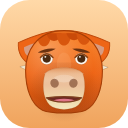
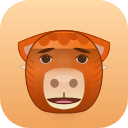
Strip the cuteness from Niulai: matte eyes, level mouth, deeper shading
Keeps the proportions but removes the signals that made it read as a
kawaii mascot rather than the reference character:

- Eyes are smaller, almond, tilted and matte, with the iris nearly
  filling them under a heavy lid. The sparkle highlights are gone.
- The mouth is a level line with the corners set low, not a cartoon "w"
  smile. A smile now lifts the corners rather than being the default.
- Darker, less candied palette, a shadow under the brow ridge, and fur
  strokes down the cheeks so the silhouette is not a clean vector edge.
- Heavier brows angled down toward the middle.

Three renderer options carry this, all opt-in so no other animal moves:
`eyes.gloss: false`, `eyes.tilt`, and `mouthStyle: 'line'`. Also adds
`headShape` and `unionOutline` for animals whose skull is not a rounded
blob, plus `thumbScale` for heads too tall to fit the default thumbnail
box.

This is closer but still a stylised vector drawing rather than a
faithful reproduction of the reference render.

Changed region(s): [[0.1562, 0.2188, 0.8438, 0.9062], [0.8125, 0.3125, 0.875, 0.4062], [0.125, 0.3125, 0.1875, 0.4062]]

diff --git a/src/core/animals.js b/src/core/animals.js
@@ -167,16 +167,21 @@
     }
 
     var ry = r * (E.aspect || 1) * mix(0.18, 1, open);
+    var tilt = (E.tilt || 0) * side;
 
     if (E.white) {
-      fillEllipse(ctx, x, y, r * 1.02, ry * 1.02, 0, spec.eyeWhite || '#ffffff');
+      fillEllipse(ctx, x, y, r * 1.02, ry * 1.02, tilt, spec.eyeWhite || '#ffffff');
       ctx.strokeStyle = 'rgba(0,0,0,0.16)';
       ctx.lineWidth = 0.008;
       ctx.stroke();
       var px = x + p.yaw * r * 0.34;
       var iris = r * (E.iris || 0.46);
-      fillEllipse(ctx, px, y + p.pitch * ry * 0.2, iris, Math.min(ry * 0.92, iris), 0, spec.eye);
-      fillEllipse(ctx, px - iris * 0.34, y - ry * 0.3, r * 0.16, r * 0.16 * open, 0, 'rgba(255,255,255,0.92)');
+      fillEllipse(ctx, px, y + p.pitch * ry * 0.2, iris, Math.min(ry * 0.92, iris), tilt, spec.eye);
+      if (E.gloss !== false) {
+        fillEllipse(ctx, px - iris * 0.34, y - ry * 0.3, r * 0.16, r * 0.16 * open, 0, 'rgba(255,255,255,0.92)');
+      } else {
+        fillEllipse(ctx, px + iris * 0.3, y - ry * 0.28, r * 0.1, r * 0.08 * open, 0, 'rgba(255,255,255,0.5)');
+      }
       if (E.hood) {
         // Heavy upper lid, which is what makes an eye read as a real animal's
         // rather than a cartoon dot.
@@ -304,6 +309,43 @@
     }
 
     var stemTop = spec.nose.y + spec.nose.h * 0.9;
+
+    if (spec.mouthStyle === 'line') {
+      if (openAmt > 0.05) {
+        var lineOpen = M.depth + openAmt * (M.maxOpen || 0.2);
+        openMouthPath(ctx, w, top, lineOpen);
+        ctx.fillStyle = spec.mouthInner || '#5c2230';
+        ctx.fill();
+        ctx.save();
+        ctx.clip();
+        fillEllipse(ctx, 0, top + lineOpen * 0.8, w * 0.6, lineOpen * 0.5, 0, spec.tongue);
+        ctx.restore();
+        openMouthPath(ctx, w, top, lineOpen);
+        ctx.strokeStyle = lineColor;
+        ctx.lineWidth = 0.016;
+        ctx.stroke();
+      } else {
+        // Level line with the corners set slightly low; a smile lifts them.
+        var corner = top + 0.018 - p.smile * 0.07;
+        ctx.beginPath();
+        ctx.moveTo(-w, corner);
+        ctx.quadraticCurveTo(-w * 0.45, top - 0.008, 0, top - 0.004);
+        ctx.quadraticCurveTo(w * 0.45, top - 0.008, w, corner);
+        ctx.strokeStyle = lineColor;
+        ctx.lineWidth = 0.021;
+        ctx.lineCap = 'round';
+        ctx.stroke();
+      }
+      // Short philtrum from the nose.
+      ctx.beginPath();
+      ctx.moveTo(0, stemTop);
+      ctx.lineTo(0, top - 0.02);
+      ctx.strokeStyle = lineColor;
+      ctx.lineWidth = 0.015;
+      ctx.stroke();
+      return;
+    }
+
     if (openAmt > 0.05) {
       var oh = M.depth + openAmt * (M.maxOpen || 0.26);
       openMouthPath(ctx, w, top, oh);
@@ -373,12 +415,24 @@
 
   function drawHead(ctx, spec, p) {
     var H = spec.head;
-    headPath(ctx, H);
+    // An animal whose skull is not a rounded blob can supply its own outline.
+    var outline = spec.headShape || headPath;
 
     var g = ctx.createLinearGradient(0, -H.h / 2, 0, H.h / 2);
     g.addColorStop(0, spec.furLight || spec.fur);
     g.addColorStop(0.52, spec.fur);
     g.addColorStop(1, spec.furShade);
+
+    if (spec.unionOutline) {
+      // The silhouette is the union of several shapes: stroke first, then let
+      // the fill cover every seam so only the outer edge survives.
+      outline(ctx, H);
+      ctx.strokeStyle = spec.outline || spec.furShade;
+      ctx.lineWidth = 0.028;
+      ctx.lineJoin = 'round';
+      ctx.stroke();
+    }
+    outline(ctx, H);
     ctx.fillStyle = g;
     ctx.fill();
 
@@ -396,10 +450,12 @@
     if (spec.markings) spec.markings(ctx, spec, p);
     ctx.restore();
 
-    headPath(ctx, H);
-    ctx.strokeStyle = spec.outline || spec.furShade;
-    ctx.lineWidth = 0.014;
-    ctx.stroke();
+    if (!spec.unionOutline) {
+      outline(ctx, H);
+      ctx.strokeStyle = spec.outline || spec.furShade;
+      ctx.lineWidth = 0.014;
+      ctx.stroke();
+    }
   }
 
   function drawMuzzle(ctx, spec) {
@@ -508,9 +564,9 @@
   var SPECS = [
     base({
       id: 'niulai', name: 'Niulai', emoji: '\ud83d\udc02',
-      fur: '#ee6516', furLight: '#f9862c', furShade: '#bf480a',
-      inner: '#dda189', outline: '#a63e06',
-      mouthColor: '#7c3f1e', mouthInner: '#6d2a22', tongue: '#e0788a',
+      fur: '#e35d0f', furLight: '#f37c1e', furShade: '#9c3502',
+      inner: '#c4836a', outline: '#7f2c02',
+      mouthColor: '#54260e', mouthInner: '#6d2a22', tongue: '#e0788a',
       eye: '#4a2a12', eyeWhite: '#fdf7ef',
       /*
        * Proportions are taken off the reference render, as fractions of head
@@ -519,11 +575,12 @@
        */
       head: { w: 1.0, h: 1.07, jaw: 0.86, chin: 0.56 },
       ear: { type: 'triangle', w: 0.32, h: 0.56, x: 0.475, y: -0.26, tilt: -1.08, inner: 0.46, innerColor: '#d79c82', swing: 0.8 },
-      eyes: { x: 0.225, y: -0.17, r: 0.078, aspect: 0.98, white: true, iris: 0.68, hood: true, hoodColor: '#8a4212' },
+      eyes: { x: 0.235, y: -0.17, r: 0.075, aspect: 0.84, tilt: 0.14, white: true, iris: 0.82, gloss: false, hood: true, hoodColor: '#79340a' },
       brows: null,      // drawn in faceExtras, so they can be heavy and angled
       muzzle: null,     // drawn in faceExtras, so it can jut past the chin
       nose: { type: 'snout', plate: false, w: 0.34, h: 0.14, y: 0.15, tilt: 0.5, nostrilColor: 'rgba(112,62,36,0.6)' },
-      mouth: { y: 0.34, w: 0.23, depth: 0.045, maxOpen: 0.11 },
+      mouth: { y: 0.36, w: 0.215, depth: 0.045, maxOpen: 0.11 },
+      mouthStyle: 'line',
 
       behind: function (ctx) {
         // Short pale horns breaking the outline just above eye level.
@@ -570,14 +627,35 @@
         }
 
         // Lighter bridge from between the eyes down to the muzzle.
-        fillEllipse(ctx, 0, -0.09, 0.095, 0.16, 0, 'rgba(255,178,116,0.24)');
+        fillEllipse(ctx, 0, -0.09, 0.095, 0.16, 0, 'rgba(255,170,105,0.2)');
+
+        // Shadow under the brow ridge, and a darker rim around the jaw: the
+        // volume that a flat fill otherwise loses.
+        var ridge = ctx.createLinearGradient(0, -0.30, 0, -0.02);
+        ridge.addColorStop(0, 'rgba(88,30,2,0.42)');
+        ridge.addColorStop(1, 'rgba(88,30,2,0)');
+        ctx.fillStyle = ridge;
+        ctx.fillRect(-0.5, -0.30, 1, 0.3);
+
+        ctx.strokeStyle = 'rgba(110,38,2,0.3)';
+        ctx.lineWidth = 0.014;
+        ctx.lineCap = 'round';
+        for (var k = 0; k < 5; k++) {
+          var t = -0.20 + k * 0.09;
+          for (var sg = -1; sg <= 1; sg += 2) {
+            ctx.beginPath();
+            ctx.moveTo(sg * 0.49, t);
+            ctx.quadraticCurveTo(sg * 0.44, t + 0.045, sg * 0.40, t + 0.08);
+            ctx.stroke();
+          }
+        }
       },
 
       faceExtras: function (ctx, spec, p) {
         // Heavy angled brows, riding just above the eyes.
         var browY = -0.275 - p.brow * 0.045;
         for (var side = -1; side <= 1; side += 2) {
-          stripe(ctx, side * 0.225, browY, 0.24, side * 0.20, 0.072, '#6b3210');
+          stripe(ctx, side * 0.235, browY, 0.25, side * 0.28, 0.078, '#542506');
         }
 
         // The muzzle: a rounded mass starting just under the eyes and jutting
@@ -862,9 +940,11 @@
     /** Draws a head that fits a `size` x `size` box, for pickers and previews. */
     drawThumb: function (ctx, id, size, params) {
       ctx.save();
-      ctx.translate(size / 2, size * 0.54);
-      ctx.scale(size * 0.62, size * 0.62);
-      drawAnimal(ctx, this.get(id), params || {});
+      var spec = this.get(id);
+      var scale = size * (spec.thumbScale || 0.62);
+      ctx.translate(size / 2, size * (spec.thumbCentre || 0.54));
+      ctx.scale(scale, scale);
+      drawAnimal(ctx, spec, params || {});
       ctx.restore();
     }
   };
